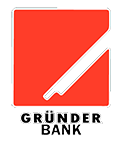
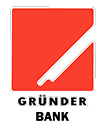
La tabla resumen y el ultimo label funcionan

Changed region(s): [[0.1748, 0.7323, 0.8447, 0.9685], [0.3495, 0.0472, 0.932, 0.7323], [0.0874, 0.0472, 0.1456, 0.1417]]

diff --git a/src/mx/itson/catrina/ui/Main.java b/src/mx/itson/catrina/ui/Main.java
@@ -5,11 +5,15 @@
  */
 package mx.itson.catrina.ui;
 
+
 import java.io.File;
 import java.nio.charset.StandardCharsets;
 import java.nio.file.Files;
 import java.text.DateFormat;
+import java.text.NumberFormat;
 import java.text.SimpleDateFormat;
+import java.util.Locale;
+import javax.swing.ImageIcon;
 import javax.swing.JFileChooser;
 import javax.swing.table.DefaultTableModel;
 import mx.itson.catrina.entidades.Estado;
@@ -27,6 +31,8 @@ public class Main extends javax.swing.JFrame {
      */
     public Main() {
         initComponents();
+           setIconImage(new ImageIcon(getClass().getResource("/mx/itson/catrina/imagenes/Grunder icon.png")).getImage());
+     
     }
 
     /**
@@ -60,18 +66,22 @@ public class Main extends javax.swing.JFrame {
         tblMovimiento = new javax.swing.JTable();
         jLabel3 = new javax.swing.JLabel();
         jLabel4 = new javax.swing.JLabel();
-        lblFinal = new javax.swing.JLabel();
+        lblSaldoFinal = new javax.swing.JLabel();
 
         setDefaultCloseOperation(javax.swing.WindowConstants.EXIT_ON_CLOSE);
+        setTitle("Gründer Bank Interface");
+        setIconImages(null);
 
         jPanel4.setBackground(new java.awt.Color(204, 0, 0));
         jPanel4.setForeground(new java.awt.Color(255, 0, 0));
 
-        jLabel5.setIcon(new javax.swing.ImageIcon(getClass().getResource("/mx/itson/catrina/imagenes/4971983890665177088_1 Mini.png"))); // NOI18N
+        jLabel5.setIcon(new javax.swing.ImageIcon(getClass().getResource("/mx/itson/catrina/imagenes/4971983890665177088_1 Mini_1.png"))); // NOI18N
 
+        jLabel6.setFont(new java.awt.Font("Tahoma", 1, 16)); // NOI18N
         jLabel6.setForeground(new java.awt.Color(255, 255, 255));
         jLabel6.setText("Bienvenido");
 
+        lblNombreUsuario.setFont(new java.awt.Font("Tahoma", 1, 16)); // NOI18N
         lblNombreUsuario.setForeground(new java.awt.Color(255, 255, 255));
         lblNombreUsuario.setText("Usuario");
 
@@ -81,14 +91,14 @@ public class Main extends javax.swing.JFrame {
             jPanel4Layout.createParallelGroup(javax.swing.GroupLayout.Alignment.LEADING)
             .addGroup(jPanel4Layout.createSequentialGroup()
                 .addContainerGap()
-                .addComponent(jLabel5)
-                .addContainerGap(javax.swing.GroupLayout.DEFAULT_SIZE, Short.MAX_VALUE))
-            .addGroup(jPanel4Layout.createSequentialGroup()
-                .addGap(34, 34, 34)
                 .addGroup(jPanel4Layout.createParallelGroup(javax.swing.GroupLayout.Alignment.LEADING)
-                    .addComponent(jLabel6)
-                    .addComponent(lblNombreUsuario))
-                .addGap(0, 0, Short.MAX_VALUE))
+                    .addComponent(jLabel5)
+                    .addGroup(jPanel4Layout.createSequentialGroup()
+                        .addGap(10, 10, 10)
+                        .addGroup(jPanel4Layout.createParallelGroup(javax.swing.GroupLayout.Alignment.LEADING)
+                            .addComponent(lblNombreUsuario)
+                            .addComponent(jLabel6))))
+                .addContainerGap(javax.swing.GroupLayout.DEFAULT_SIZE, Short.MAX_VALUE))
         );
         jPanel4Layout.setVerticalGroup(
             jPanel4Layout.createParallelGroup(javax.swing.GroupLayout.Alignment.LEADING)
@@ -111,6 +121,11 @@ public class Main extends javax.swing.JFrame {
         jLabel1.setText("Seleccione el mes");
 
         cbxMes.setModel(new javax.swing.DefaultComboBoxModel<>(new String[] { "Enero", "Febrero", "Marzo", "Abril", "Mayo", "Junio", "Julio", "Agosto", "Septiembre", "Octubre", "Noviembre", "Diciembre" }));
+        cbxMes.addActionListener(new java.awt.event.ActionListener() {
+            public void actionPerformed(java.awt.event.ActionEvent evt) {
+                cbxMesActionPerformed(evt);
+            }
+        });
 
         javax.swing.GroupLayout jPanel1Layout = new javax.swing.GroupLayout(jPanel1);
         jPanel1.setLayout(jPanel1Layout);
@@ -270,8 +285,8 @@ public class Main extends javax.swing.JFrame {
         jLabel4.setForeground(new java.awt.Color(204, 0, 0));
         jLabel4.setText("Saldo final del Periodo:");
 
-        lblFinal.setForeground(new java.awt.Color(204, 0, 0));
-        lblFinal.setText("$");
+        lblSaldoFinal.setForeground(new java.awt.Color(204, 0, 0));
+        lblSaldoFinal.setText("$");
 
         javax.swing.GroupLayout jPanel3Layout = new javax.swing.GroupLayout(jPanel3);
         jPanel3.setLayout(jPanel3Layout);
@@ -287,12 +302,12 @@ public class Main extends javax.swing.JFrame {
                         .addComponent(jScrollPane1, javax.swing.GroupLayout.PREFERRED_SIZE, 284, javax.swing.GroupLayout.PREFERRED_SIZE)
                         .addPreferredGap(javax.swing.LayoutStyle.ComponentPlacement.UNRELATED)
                         .addComponent(jScrollPane2, javax.swing.GroupLayout.PREFERRED_SIZE, 408, javax.swing.GroupLayout.PREFERRED_SIZE)
-                        .addContainerGap(164, Short.MAX_VALUE))
+                        .addContainerGap(153, Short.MAX_VALUE))
                     .addGroup(javax.swing.GroupLayout.Alignment.TRAILING, jPanel3Layout.createSequentialGroup()
                         .addGap(0, 0, Short.MAX_VALUE)
                         .addComponent(jLabel4)
                         .addPreferredGap(javax.swing.LayoutStyle.ComponentPlacement.RELATED)
-                        .addComponent(lblFinal)
+                        .addComponent(lblSaldoFinal)
                         .addGap(85, 85, 85))
                     .addGroup(jPanel3Layout.createSequentialGroup()
                         .addGroup(jPanel3Layout.createParallelGroup(javax.swing.GroupLayout.Alignment.LEADING)
@@ -316,7 +331,7 @@ public class Main extends javax.swing.JFrame {
                 .addGap(18, 18, 18)
                 .addGroup(jPanel3Layout.createParallelGroup(javax.swing.GroupLayout.Alignment.BASELINE)
                     .addComponent(jLabel4)
-                    .addComponent(lblFinal))
+                    .addComponent(lblSaldoFinal))
                 .addContainerGap(javax.swing.GroupLayout.DEFAULT_SIZE, Short.MAX_VALUE))
         );
 
@@ -343,7 +358,7 @@ public class Main extends javax.swing.JFrame {
                     .addComponent(jPanel1, javax.swing.GroupLayout.PREFERRED_SIZE, javax.swing.GroupLayout.DEFAULT_SIZE, javax.swing.GroupLayout.PREFERRED_SIZE))
                 .addPreferredGap(javax.swing.LayoutStyle.ComponentPlacement.RELATED, javax.swing.GroupLayout.DEFAULT_SIZE, Short.MAX_VALUE)
                 .addComponent(jPanel3, javax.swing.GroupLayout.PREFERRED_SIZE, javax.swing.GroupLayout.DEFAULT_SIZE, javax.swing.GroupLayout.PREFERRED_SIZE)
-                .addGap(41, 41, 41))
+                .addContainerGap(javax.swing.GroupLayout.DEFAULT_SIZE, Short.MAX_VALUE))
         );
 
         javax.swing.GroupLayout layout = new javax.swing.GroupLayout(getContentPane());
@@ -364,6 +379,10 @@ public class Main extends javax.swing.JFrame {
         pack();
     }// </editor-fold>//GEN-END:initComponents
 
+
+
+
+    
     private void btnSeleccionarActionPerformed(java.awt.event.ActionEvent evt) {//GEN-FIRST:event_btnSeleccionarActionPerformed
         // TODO add your handling code here:
          try{
@@ -376,11 +395,12 @@ public class Main extends javax.swing.JFrame {
                 
                 String contenido = new String(archivoByte, StandardCharsets.UTF_8);
                 
-                Estado estado = new Estado().deserializar(contenido);
-                
                 Movimiento movimiento = new Movimiento();
                 
+                Estado estado = new Estado().deserializar(contenido);
                 
+                Locale local = new Locale("es", "MX");
+                NumberFormat formatoMoneda = NumberFormat.getCurrencyInstance(local);
                 DateFormat formatoHorario = new SimpleDateFormat("dd/MM/yyyy");
                 
                 lblNombreUsuario.setText(estado.getCliente().getNombre());
@@ -423,33 +443,64 @@ public class Main extends javax.swing.JFrame {
                 "Divisa:  " + estado.getMoneda()
                 });
                 
-                
+
                 estado.getMovimientos().sort((mov1, mov2) -> mov1.getFecha().compareTo(mov2.getFecha()));       
-                for (Movimiento m : estado.getMovimientos()){
-                    if(m.getTipo() == Tipo.DEPOSITO){
+                for (Movimiento mov : estado.getMovimientos()){
+                    if(mov.getTipo() == Tipo.DEPOSITO){
+                        double subDeposito = 0;
+                        double subRetiro = 0;
+                        double subTotal = 0;
+                        subDeposito += mov.getCantidad();
+                        subTotal = subDeposito - subRetiro;
+                        
                         modelMovimiento.addRow(new Object[] {
-                            formatoHorario.format(m.getFecha()), 
-                            m.getDescripcion(), 
-                            m.getCantidad(),
-                            " "
+                            formatoHorario.format(mov.getFecha()), 
+                            mov.getDescripcion(), 
+                            mov.getCantidad(),
+                            " ",
+                            formatoMoneda.format(subTotal)
                         }); 
-                    }else if (m.getTipo() == Tipo.RETIRO){
+                    }else if (mov.getTipo() == Tipo.RETIRO){
+
+                        double subDeposito = 0;
+                        double subRetiro = 0;
+                        double subTotal = 0;
+                        subRetiro += mov.getCantidad();
+                        subTotal = subDeposito - subRetiro;
+                        
                         modelMovimiento.addRow(new Object[] {
-                            formatoHorario.format(m.getFecha()),  
-                            m.getDescripcion(),
+                            formatoHorario.format(mov.getFecha()),  
+                            mov.getDescripcion(),
                             "",
-                            m.getCantidad()
+                            mov.getCantidad(),
+                            formatoMoneda.format(subTotal)
                             
                         }); 
                     }
                     
                 }
-                
+                Estado e = new Estado().deserializar(contenido);
+
+                String saldoInicial = formatoMoneda.format(20000);
+
+                modelResumen.addRow(new Object[]{"Saldo Inicial (Anterior):  " + saldoInicial});
+                modelResumen.addRow(new Object[]{"Depositos:  " + formatoMoneda.format(e.sumaDeposito(e.getMovimientos()))});
+                modelResumen.addRow(new Object[]{"Retiros:  " + formatoMoneda.format(e.sumaRetiro(e.getMovimientos()))});
+                modelResumen.addRow(new Object[]{"Saldo Final:  " + formatoMoneda.format(e.suma(movimiento))});
+
+                String subTotalFinal = String.valueOf(formatoMoneda.format(e.suma(movimiento)));
+
+                lblSaldoFinal.setText(subTotalFinal);
+
             }
          }catch(Exception ex){
              System.err.println("Ocurrio un error " + ex.getMessage());
         }
     }//GEN-LAST:event_btnSeleccionarActionPerformed
+
+    private void cbxMesActionPerformed(java.awt.event.ActionEvent evt) {//GEN-FIRST:event_cbxMesActionPerformed
+        
+    }//GEN-LAST:event_cbxMesActionPerformed
 
     /**
      * @param args the command line arguments
@@ -504,8 +555,8 @@ public class Main extends javax.swing.JFrame {
     private javax.swing.JScrollPane jScrollPane2;
     private javax.swing.JScrollPane jScrollPane3;
     private javax.swing.JScrollPane jScrollPane4;
-    private javax.swing.JLabel lblFinal;
     private javax.swing.JLabel lblNombreUsuario;
+    private javax.swing.JLabel lblSaldoFinal;
     private javax.swing.JTable tblCuenta;
     private javax.swing.JTable tblMovimiento;
     private javax.swing.JTable tblResumen;

diff --git a/src/mx/itson/catrina/entidades/Estado.java b/src/mx/itson/catrina/entidades/Estado.java
@@ -2,17 +2,20 @@
 package mx.itson.catrina.entidades;
 
 import com.google.gson.Gson;
+import com.google.gson.JsonSyntaxException;
+import java.util.ArrayList;
 import java.util.List;
+import mx.itson.catrina.enumeradores.Tipo;
 
 /**
  *
  * @author Xylan
  */
 public class Estado {
+
     private String cuenta;
     private String clabe;
     private String moneda;
-    private String mes;
     private Cliente cliente;
     private List<Movimiento> movimientos;
    
@@ -20,28 +23,39 @@ public class Estado {
         Estado catrina = new Estado();
         try{
             catrina = new Gson().fromJson(json, Estado.class);
-        }catch(Exception ex){
+        }catch(JsonSyntaxException ex){
             System.err.println("Ocurrio un error" + ex.getMessage());
         }
         return catrina;
      }
-      
-        public double suma(List<Movimiento> listaMovimientos){
-            double resultado = 0;
-            
-            for(Movimiento m : listaMovimientos){
-                    switch(m.getTipo()){
-                        
-                        case DEPOSITO : resultado += m.getCantidad();
-                        
-                        case RETIRO : resultado -= m.getCantidad();
-                        
-                        default : throw new AssertionError();
-                    }
-                }
-        return resultado;
-}
+ 
+     public double sumaDeposito(List<Movimiento> listDeposito){
+         double totalDeposito = 0;
+         
+         for(Movimiento mov : listDeposito){
+         if(mov.getTipo() == Tipo.DEPOSITO){
+           totalDeposito += mov.getCantidad();
+            }
+            }
+        return totalDeposito;
+        }
      
+     public double sumaRetiro(List<Movimiento> listaRetiro){
+          double totalRetiro = 0;
+            
+          for(Movimiento mov : listaRetiro){
+          if(mov.getTipo() == Tipo.RETIRO){
+            totalRetiro += mov.getCantidad();
+            }
+            }
+        return totalRetiro;
+        }
+    public double suma(Movimiento suma){
+        double resultado = sumaDeposito(movimientos) - sumaRetiro(movimientos);
+        return resultado;
+    }
+     
+  
     /**
      * @return the cuenta
      */
@@ -111,6 +125,5 @@ public class Estado {
     public void setMovimientos(List<Movimiento> movimientos) {
         this.movimientos = movimientos;
     }
-    
-
 }
+
